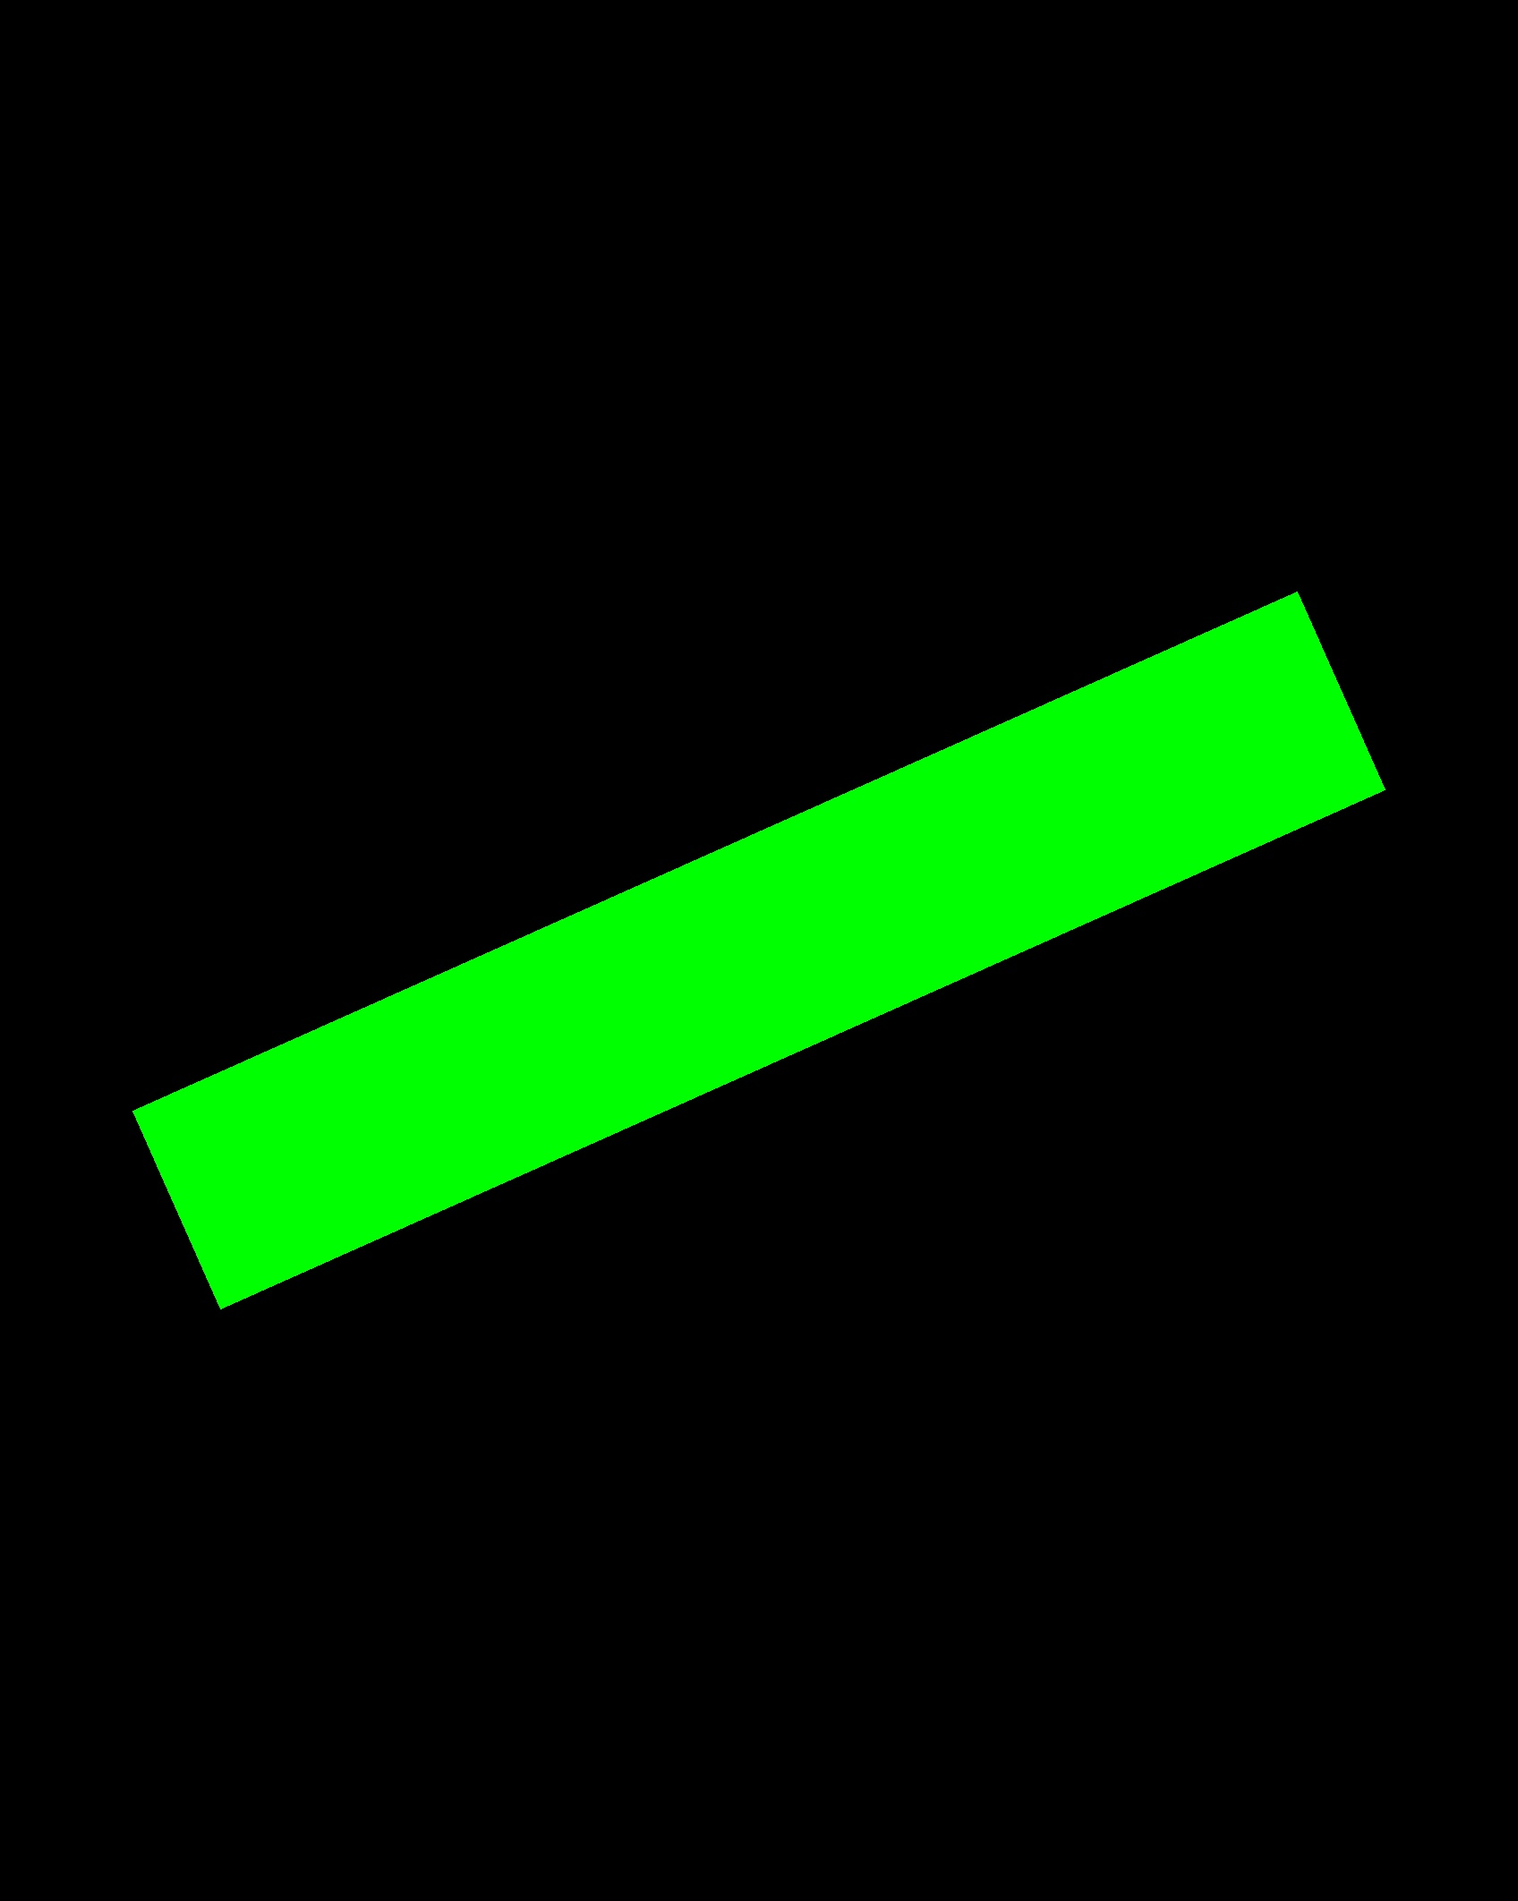
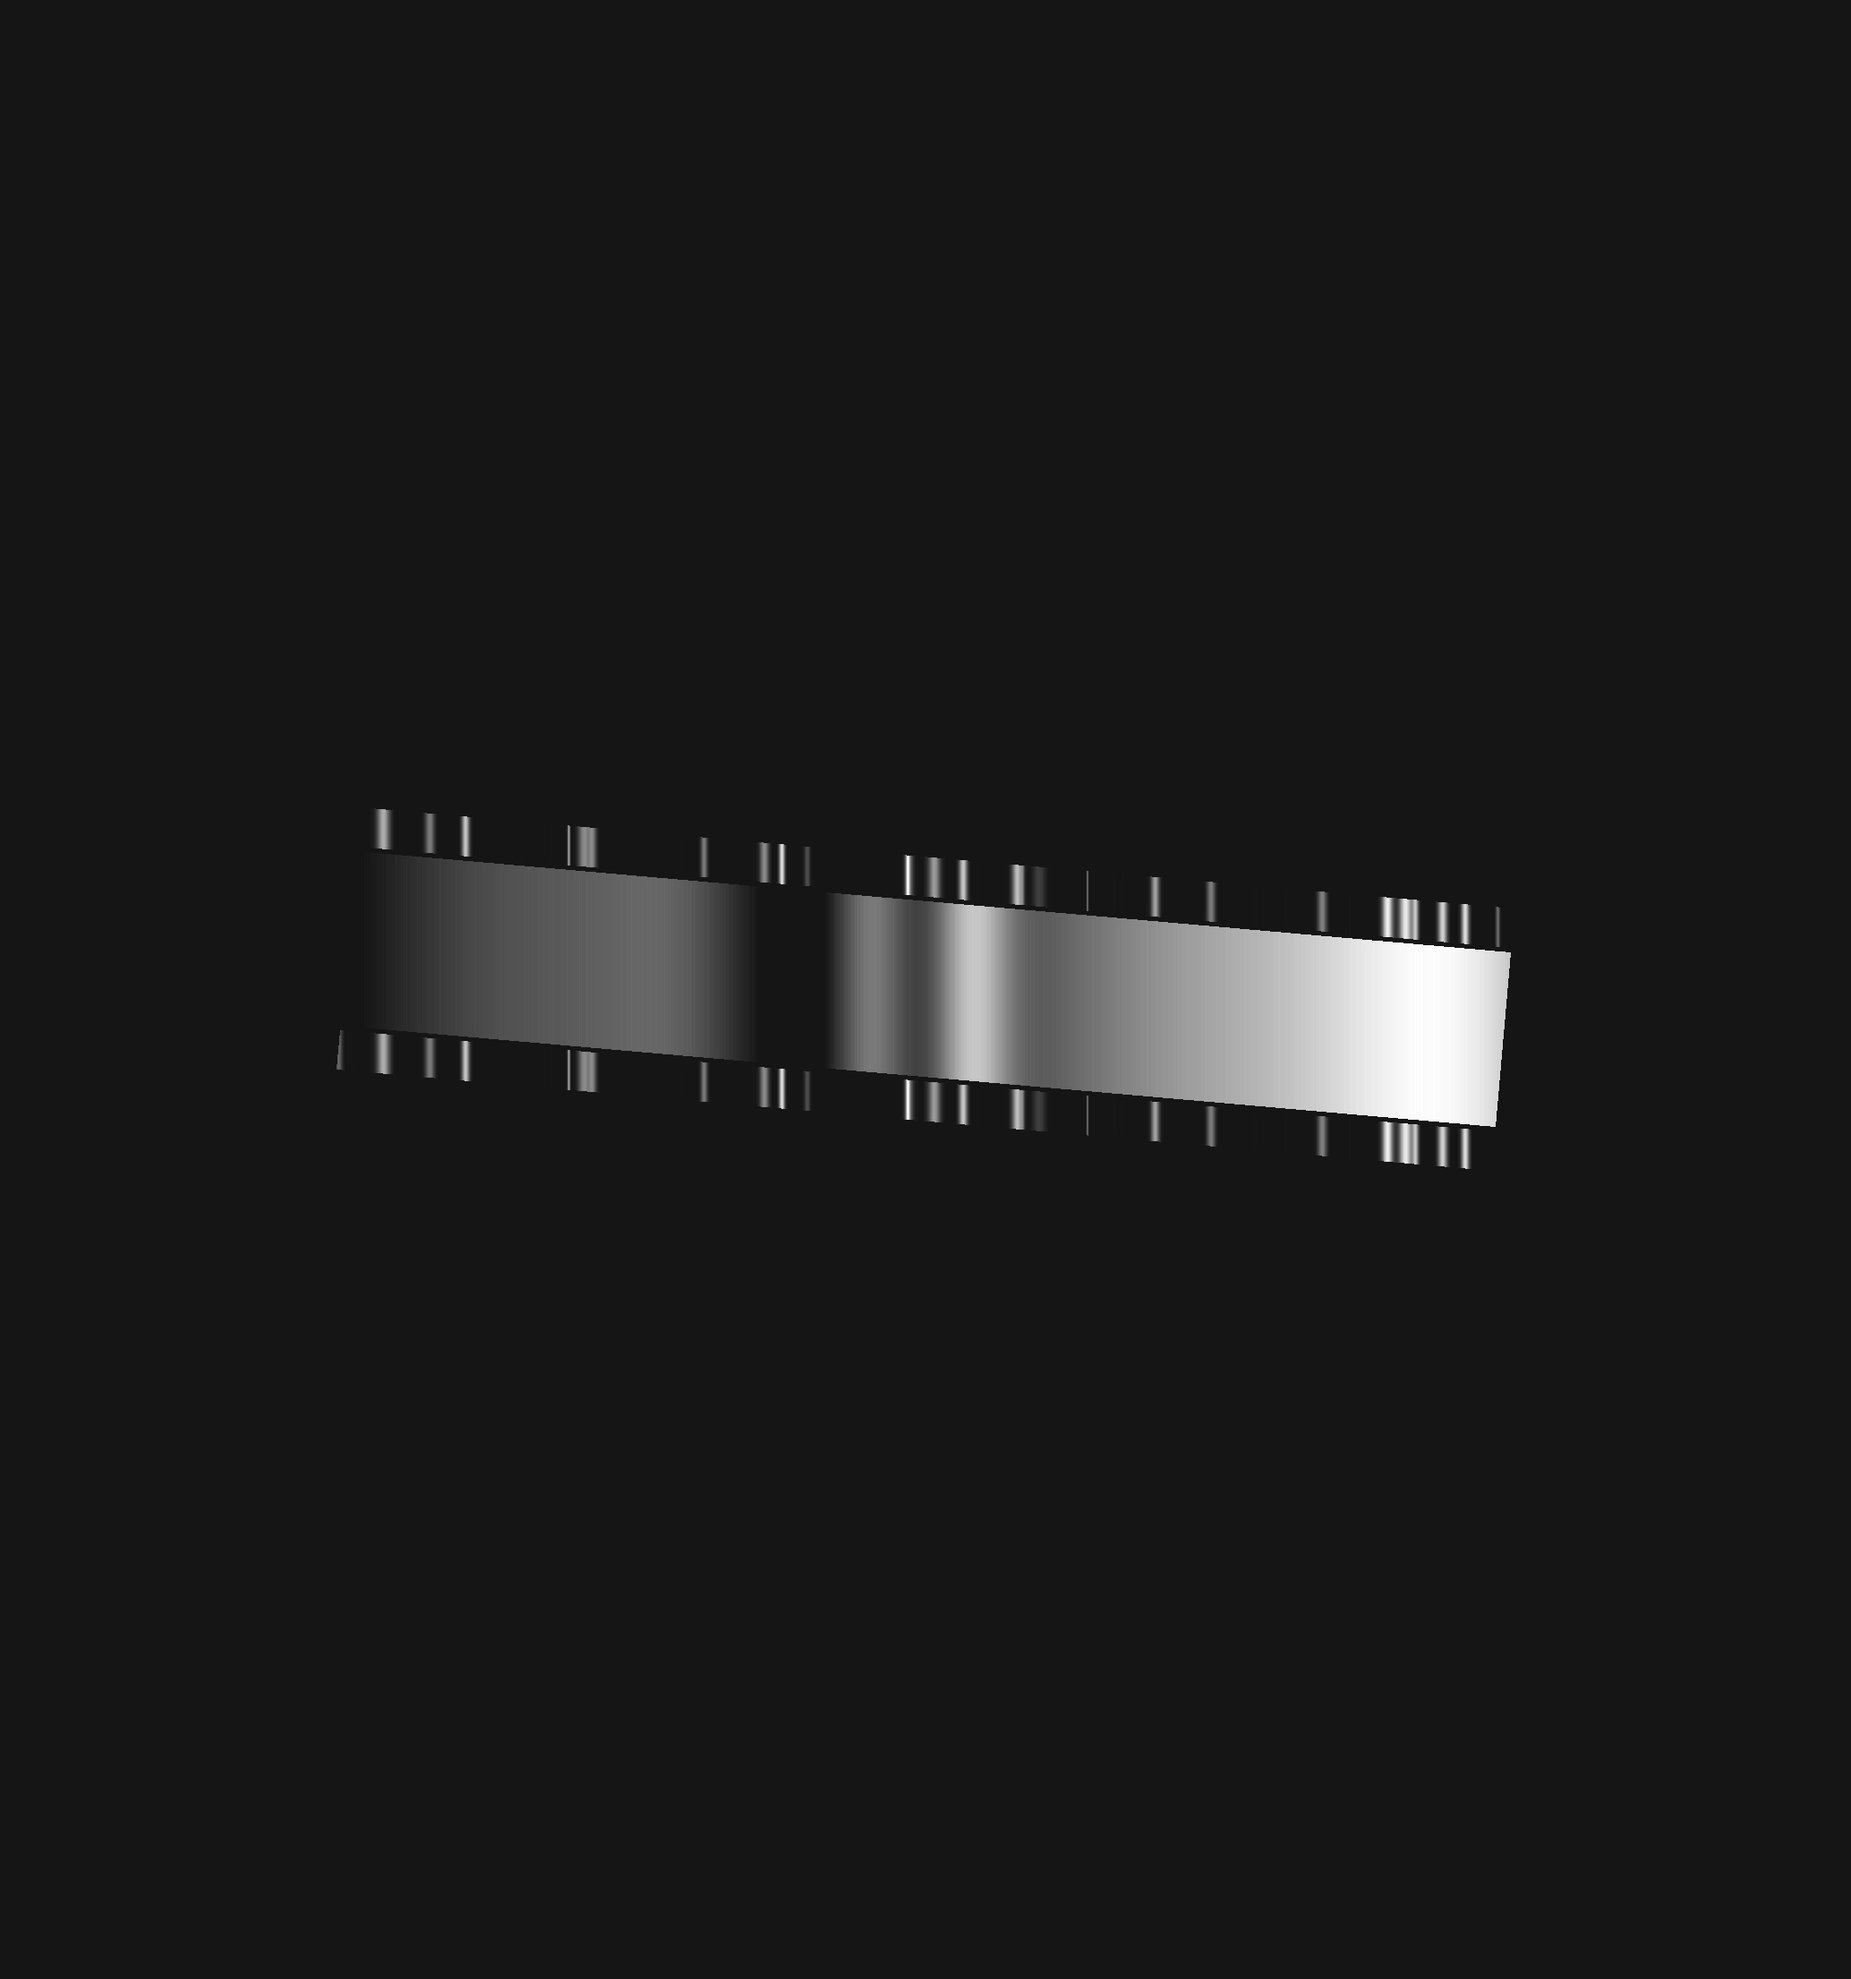
:sparkles: Generador funcional

Changed region(s): [[0.0938, 0.3107, 0.9062, 0.6836]]

diff --git a/imageGenerator/observationArtist.py b/imageGenerator/observationArtist.py
@@ -1,3 +1,5 @@
+from numbers import Number
+import random
 from matplotlib import pyplot as plt
 from numpy.typing import NDArray
 from typing import Any, Callable, Tuple
@@ -24,98 +26,200 @@ imagen.
 - y {int}: coordenada vertical central donde se dibujara el espectro.
 - width {int}: ancho de la observación a dibujar.
 - height {int}: alto de la observación a dibujar.
+- openingLamp {float}: apertura porcentual de la lampara. (0, 0.5) acorde 
+al alto de la observacion.
+- distanceBetweenParts {float}: distancia porcentual entre partes de un 
+espectro. (0, 0.33) acorde al alto de la observacion.
 - angle {int}?: angulo de inclinacion de la observacion a dibujar.
 - inplace {bool}?: condicion que indica si se realizaran los cambios
 sobre la imagen recibida o sobre una copia. Default True.
+- baseGrey {int}?: nivel de gris minimo a considerar. Default 1.
 
-return {NDArray[np.uint8]}: matriz de pixeles que representa la 
+return 
+- {NDArray[np.uint8]}: matriz de pixeles que representa la 
 imagen con la observacion agregada.
+- {NDArray[np.uint8]}: mascara de locación del espectro.
 """
+
 def drawObservation(
         img: NDArray[np.uint8], 
         x:int, y:int, width:int, height:int, 
-        angle:int=0, inplace:bool = True) -> NDArray[np.uint8]:
-
+        opening:float, distanceBetweenParts:float,
+        angle:int=0, inplace:bool = True, baseGrey:int = 1) -> NDArray[np.uint8]:
+    
     if not inplace:
         img = img.copy()
 
-    # Color con el que se dibujara el rectangulo
-    color = (255, 255, 255)
+    # Crear el rectángulo de observacion rotado
+    rectObservation = ((x, y), (width, height), angle)
 
-    # Crear el rectángulo rotado
-    rect = ((x, y), (width, height), angle)
-
-    # Obtener las esquinas del rectángulo
-    box = cv2.boxPoints(rect)
-    box = np.int32(box)
+    # Crear el rectangulo de cada parte de la observacións
+    openingInPixel = round(height * opening)
+    distanceBetweenPartsInPixel = round(height * distanceBetweenParts)
+    centerLamp1 = rotate_point(x=x,y=y-(height-openingInPixel)/2,
+                               cx=x, cy=y, angle_degrees=angle)
+    centerLamp2 = rotate_point(x=x,y=y+(height-openingInPixel)/2,
+                               cx=x, cy=y, angle_degrees=angle)
+    rectParts = {
+        "lamp1": (centerLamp1, (width, openingInPixel), angle),
+        "lamp2": (centerLamp2, (width, openingInPixel), angle),
+        "science": ((x,y), (width, height-openingInPixel*2-distanceBetweenPartsInPixel*2), angle),
+    }
+    boxParts = {
+        "lamp1": np.int32(cv2.boxPoints(rectParts["lamp1"])),
+        "lamp2": np.int32(cv2.boxPoints(rectParts["lamp2"])),
+        "science": np.int32(cv2.boxPoints(rectParts["science"])),
+    }
     
+
+    # Obtener las esquinas del rectángulo de observacion
+    boxObservation = cv2.boxPoints(rectObservation)
+    boxObservation = np.int32(boxObservation)
+
+    # Preparar etiqueta de caja delimitadora
+    allBoxs = np.concatenate([boxParts["lamp1"], boxParts["lamp2"], boxParts["science"]], axis=0)
+    x_coords = allBoxs[:,0]
+    y_coords = allBoxs[:,1]
+    labelObservation = {
+        "x":x_coords.min(), 
+        "y":y_coords.min(), 
+        "width":x_coords.max() - x_coords.min(), 
+        "height":y_coords.max() - y_coords.min(), 
+    }
+
     # Crear máscara
-    mask = np.zeros(img.shape[:2], dtype=np.uint8)
-    cv2.drawContours(mask, [box], 0, 255, thickness=cv2.FILLED)
-    # Obtener puntos dentro del rectángulo
-    ys, xs = np.where(mask == 255)
-    # Pintar píxeles con el color según la función
-    science_function = spectral_function()
+    maskObservation = np.zeros(img.shape[:2], dtype=np.uint8)
+    cv2.drawContours(maskObservation, [boxObservation], 0, 255, thickness=cv2.FILLED) # Limites observacion
+    # cv2.rectangle(   # Etiqueta (Caja delimitadora)
+    #     img,
+    #     (labelObservation["x"], labelObservation["y"]),
+    #     (labelObservation["x"] + labelObservation["width"], labelObservation["y"] + labelObservation["height"]), 
+    #     (255,0,0), thickness=3
+    # )
+
+    # Mascara para cada parte del espectro.
+    maskParts = {
+        "lamp1": np.zeros(img.shape[:2], dtype=np.uint8),
+        "lamp2": np.zeros(img.shape[:2], dtype=np.uint8),
+        "science": np.zeros(img.shape[:2], dtype=np.uint8) 
+    }
+    cv2.drawContours(maskParts["lamp1"], [boxParts["lamp1"]], 0, 255, thickness=cv2.FILLED)
+    cv2.drawContours(maskParts["lamp2"], [boxParts["lamp2"]], 0, 255, thickness=cv2.FILLED)
+    cv2.drawContours(maskParts["science"], [boxParts["science"]], 0, 255, thickness=cv2.FILLED)
+
+    # Pintar espectro de ciencia
+    ys, xs = np.where(maskParts["science"] == 255)
+    science_function = spectral_function(
+        width=labelObservation["width"], 
+        noise_level=255*0.01, 
+        n_peaks=random.randint(4, 15),
+        baseline=0,
+        peak_spread=2.0,
+        )
     for xi, yi in zip(xs, ys):
-        intensity = science_function(xi)
+        intensity = science_function(xi-labelObservation["x"])
+        intensity = max(intensity,baseGrey) # Control de color de fondo
         img[yi, xi] = (intensity,intensity,intensity)
 
-    return img
+    # Pintar lampara de comparación 1
+    lamp_function = spectral_function(
+        width=labelObservation["width"], 
+        noise_level=255*0.01, 
+        n_peaks=random.randint(15, 50),
+        baseline=255 * random.uniform(0.05, 0.1),
+        peak_spread=0.04,
+        )
+    ys, xs = np.where(maskParts["lamp1"] == 255)
+    for xi, yi in zip(xs, ys):
+        intensity = lamp_function(xi-labelObservation["x"])
+        intensity = max(intensity,baseGrey) # Control de color de fondo
+        img[yi, xi] = (intensity,intensity,intensity)
+
+    # Pintar lampara de comparación 2
+    ys, xs = np.where(maskParts["lamp2"] == 255)
+    for xi, yi in zip(xs, ys):
+        intensity = lamp_function(xi-labelObservation["x"])
+        intensity = max(intensity,baseGrey) # Control de color de fondo
+        img[yi, xi] = (intensity,intensity,intensity)
+
+    return img, maskObservation
 
 
 """Genera una funcion que representa un espectro de ciencia sintetico.
 
+Parametros:
+- width {int}: ancho que tienen que cubrir los resultados.
+- noise_level {float}: Amplitud del ruido base (sobre 255).
+- n_peaks {int}: cantidad de picos a simular.
+- baseline {int}: valor minimo.
+- peak_spread {float}?: multiplicador que afecta al ancho de los picos simulados. 
+Default 1.0.
+
 Return:
 - {Callable[[int], int]}: funcion que dado un valor entero informa la intensidad
-que le corresponde
+que le corresponde.
 """
-def spectral_function() -> Callable[[int], int]:
+def spectral_function(width:int, noise_level:float, n_peaks:int, baseline:int, 
+                      peak_spread:float=1.0) -> Callable[[int], int]:
 
-    # Parámetros estelares aleatorios (puedes ajustarlos según tus necesidades)
-    logT = np.random.uniform(3.5, 5.0)  # Temperatura efectiva (log K)
-    logg = np.random.uniform(3.0, 5.5)  # Gravedad superficial (log cm/s²)
-    logL = np.random.uniform(0.0, 1.5)  # Luminosidad (log L/L☉)
-    Z = np.random.uniform(0.0001, +0.5)   # Metalicidad #-3.0
+    x = np.arange(width)
 
-    # Seleccionar la biblioteca espectral
-    lib = BaSeL()
+    # Crear fondo con ruido blanco gaussiano centrado en 0
+    noise = np.random.normal(loc=0.0, scale=noise_level, size=width)
 
-    # Generar el espectro estelar
-    spectrum = lib.generate_stellar_spectrum(logT, logg, logL, Z)
-    #spectrum_normalized = min_max_scale(spectrum, (0, 255))
+    # Espectro inicial como ruido (más ruido positivo)
+    spectrum = noise.clip(min=0)
 
-    print(spectrum)
+    # Agregar n picos gaussianos con alturas y anchos aleatorios
+    for _ in range(n_peaks):
+        peak_center = np.random.uniform(0, width)
+        peak_width = np.random.uniform(width*0.01, width*0.1) * peak_spread
+        peak_height = np.random.uniform(50, 255)
 
-    # Graficar el espectro
-    plt.figure()
-    plt.loglog(lib._wavelength, spectrum, label='BaSel')
-    plt.legend(frameon=False, loc='lower right')
-    plt.xlabel("Wavelength [{0}]".format(lib.wavelength_unit))
-    plt.ylabel("Flux [{0}]".format(lib.flux_units))
-    plt.xlim(800, 5e4)
-    plt.ylim(1e25, 5e30)
-    plt.tight_layout()
-    plt.show()
+        # Gaussiana: height * exp(- (x - center)^2 / (2*sigma^2))
+        gaussian_peak = peak_height * np.exp(- (x - peak_center)**2 / (2 * peak_width**2))
 
-    def color(x:int) -> Tuple[int, int, int]:
-        return (0,255,0)
-    return color
+        spectrum += gaussian_peak
+    
+    # Normalizar a rango [0, 1]
+    spectrum -= spectrum.min()
+    if spectrum.max() > 0:
+        spectrum /= spectrum.max()
 
-"""Normaliza un arreglo de datos numericos acorde al rango recibido.
+    # Escalar a [baseline, 255]
+    spectrum = baseline + spectrum * (255 - baseline)
+
+    spectrum = spectrum.astype(np.uint8)
+
+    def intensity(xi: int) -> int:
+        if xi < 0 or xi >= width:
+            return 0
+        return int(spectrum[xi])
+    
+    return intensity
+
+"""Rotar un punto en relacion centro segun la formula de rotacion 2D.
 
 Parametros:
-- arr {NDArray[Any]}: arreglo a normalizar.
-- feature_range {Tuple[int,int]}: rango (min, max) en el que se escalan
-los valores.
+- x {Number}: X del punto a rotar.
+- y {Number}: Y del punto a rotar.
+- cx {Number}: X del centro.
+- cy {Number}: Y del centro.
+- angle_degrees {Number}: angulo de rotación (en grados).
 
 Return:
-- {NDArray[Any]}: arreglo normalizado.
+- {Tuple[Number,Number]}: punto luego de rotar.
 """
-def min_max_scale(arr:NDArray[Any], feature_range:Tuple[int,int]=(0, 1)) -> NDArray[Any]:
-    arr = np.asarray(arr, dtype=float)
-    min_val = arr.min()
-    max_val = arr.max()
-    if max_val == min_val:
-        return np.full_like(arr, feature_range[0])
-    scaled = (arr - min_val) / (max_val - min_val)
-    return scaled * (feature_range[1] - feature_range[0]) + feature_range[0]
+def rotate_point(x:Number, y, cx, cy, angle_degrees) -> Tuple[Number,Number]:
+    theta = np.radians(angle_degrees)
+
+    # Trasladar el punto para que el centro sea el origen
+    tx = x - cx
+    ty = y - cy
+
+    # Aplicar rotación
+    rx = tx * np.cos(theta) - ty * np.sin(theta)
+    ry = tx * np.sin(theta) + ty * np.cos(theta)
+
+    # Trasladar de vuelta
+    return rx + cx, ry + cy

diff --git a/imageGenerator/main.py b/imageGenerator/main.py
@@ -8,24 +8,36 @@ alto = random.randint(1000, 4000)
 ancho = random.randint(1000, 4000)
 
 # Imagen negra completa.
-img = np.zeros((alto, ancho, 3), dtype=np.uint8)
-print(ancho, int(ancho*0.8))
+gray_value = np.random.randint(0, 0.15*255)
+img = np.full((alto, ancho, 3), gray_value, dtype=np.uint8)
+print(alto, ancho)
 
 # Ancho de la observacion que varia en relacion al ancho total disponible.
 obs_width = random.randint(int(ancho*0.4), int(ancho*0.95))
 # Alto total de la observacion que varia en relacion al ancho de la misma.
 obs_heigth = random.randint(int(obs_width*0.1), int(obs_width*0.4))
 # Inclinacion de la observacion.
-angle = random.randint(-30, 30)
+angle = random.randint(-5, 5)
+# Que tan anchas van a ser los espectros de lampara en relacion al espectro de ciencia
+openingLamp = random.uniform(0.1,0.35)
+# Cuanto espacio vacio hay entre cada lampara y el espectro de ciencia.
+distanceBetweenParts = random.uniform(0.02,0.1)
 
-img = drawObservation(
+img, mask = drawObservation(
     img=img,
     x=int(ancho/2), 
     y=int(alto/2),
     width=int(obs_width),
     height=int(obs_heigth),
+    opening=openingLamp,
+    distanceBetweenParts=distanceBetweenParts,
     angle=angle,
+    baseGrey=gray_value
     )
 
-# Guardar como JPG
-cv2.imwrite('imageGenerator/negro.jpg', img)
+success = cv2.imwrite('negro.jpg', img)
+cv2.imwrite('mask.jpg', mask)
+if not success:
+    print("¡Error al guardar la imagen! Verifica la ruta y permisos.")
+else:
+    print("Imagen guardada correctamente en imageGenerator/negro.jpg")
